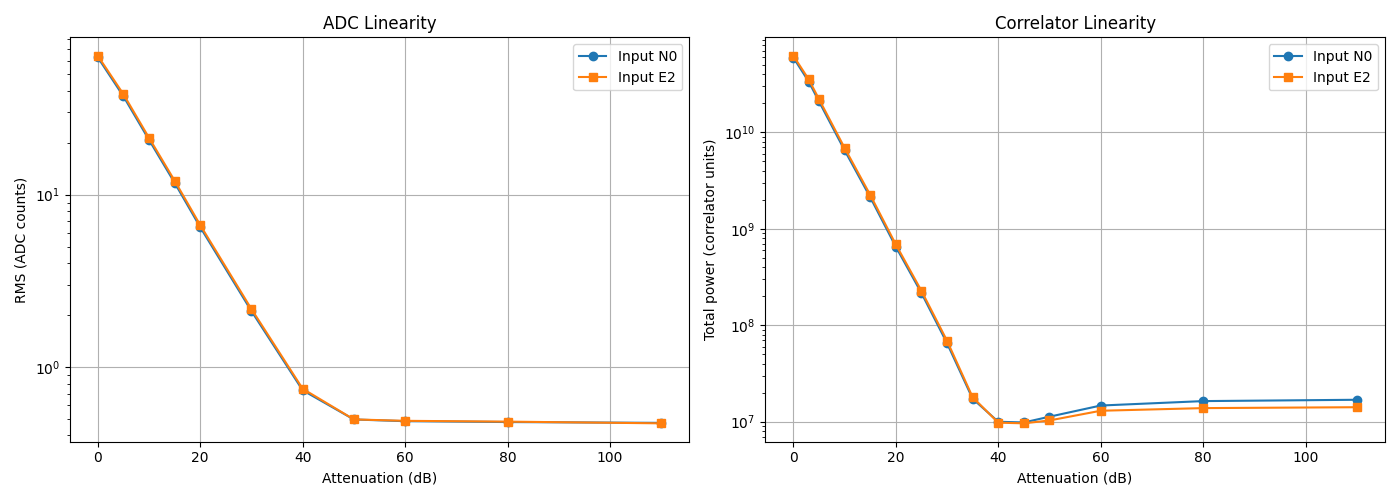
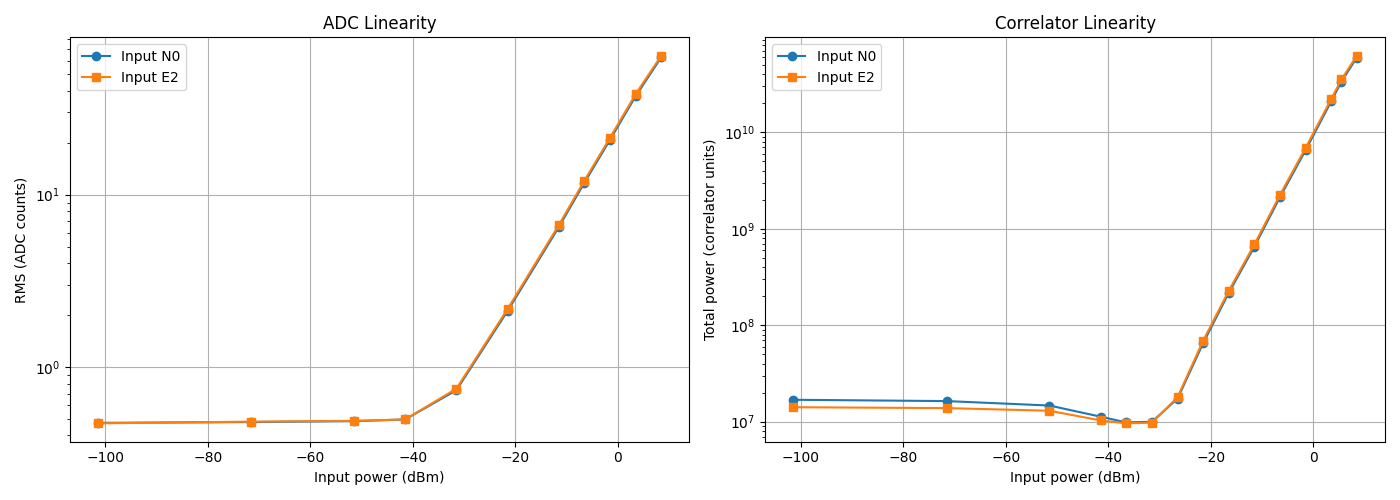
analysis: update units in linearity plot

diff --git a/scripts/linearity_test/plot_linear.py b/scripts/linearity_test/plot_linear.py
@@ -11,6 +11,10 @@ import argparse
 import numpy as np
 import matplotlib.pyplot as plt
 
+NOISE_DENSITY_DBM_HZ = -75  # noise source power spectral density
+BANDWIDTH_HZ = 225e6  # lowpass filter cutoff
+TOTAL_POWER_DBM = NOISE_DENSITY_DBM_HZ + 10 * np.log10(BANDWIDTH_HZ)
+
 parser = argparse.ArgumentParser(
     description="Plot linearity test results",
     formatter_class=argparse.ArgumentDefaultsHelpFormatter,
@@ -31,10 +35,11 @@ idx = 0
 if args.adc:
     ax = axes[idx]
     d = np.load(args.adc)
-    ax.plot(d["attenuation_dB"], d["rms_x"], "o-", label="Input N0")
-    ax.plot(d["attenuation_dB"], d["rms_y"], "s-", label="Input E2")
+    input_power = TOTAL_POWER_DBM - d["attenuation_dB"]
+    ax.plot(input_power, d["rms_x"], "o-", label="Input N0")
+    ax.plot(input_power, d["rms_y"], "s-", label="Input E2")
     ax.set_yscale("log")
-    ax.set_xlabel("Attenuation (dB)")
+    ax.set_xlabel("Input power (dBm)")
     ax.set_ylabel("RMS (ADC counts)")
     ax.set_title("ADC Linearity")
     ax.legend()
@@ -44,10 +49,11 @@ if args.adc:
 if args.corr:
     ax = axes[idx]
     d = np.load(args.corr)
-    ax.plot(d["attenuation_dB"], d["power_0"], "o-", label="Input N0")
-    ax.plot(d["attenuation_dB"], d["power_1"], "s-", label="Input E2")
+    input_power = TOTAL_POWER_DBM - d["attenuation_dB"]
+    ax.plot(input_power, d["power_0"], "o-", label="Input N0")
+    ax.plot(input_power, d["power_1"], "s-", label="Input E2")
     ax.set_yscale("log")
-    ax.set_xlabel("Attenuation (dB)")
+    ax.set_xlabel("Input power (dBm)")
     ax.set_ylabel("Total power (correlator units)")
     ax.set_title("Correlator Linearity")
     ax.legend()
